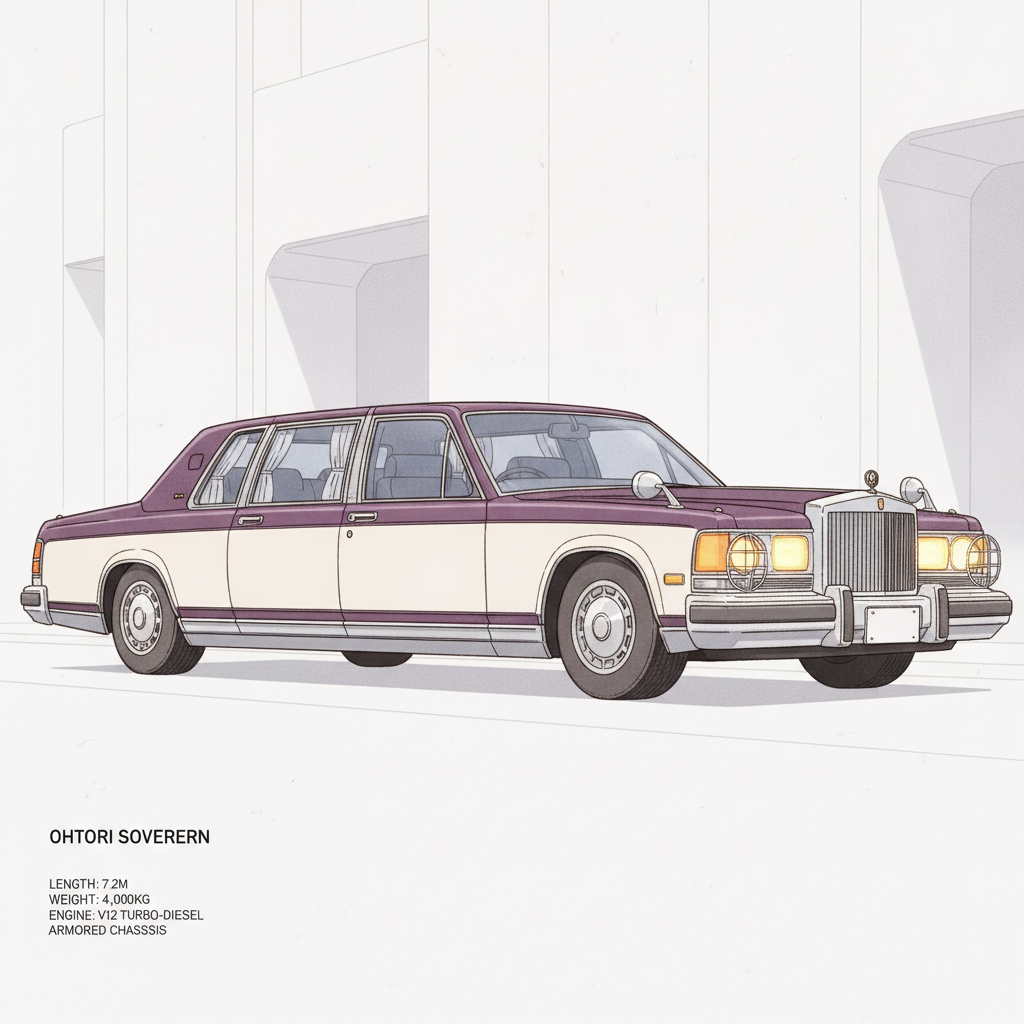
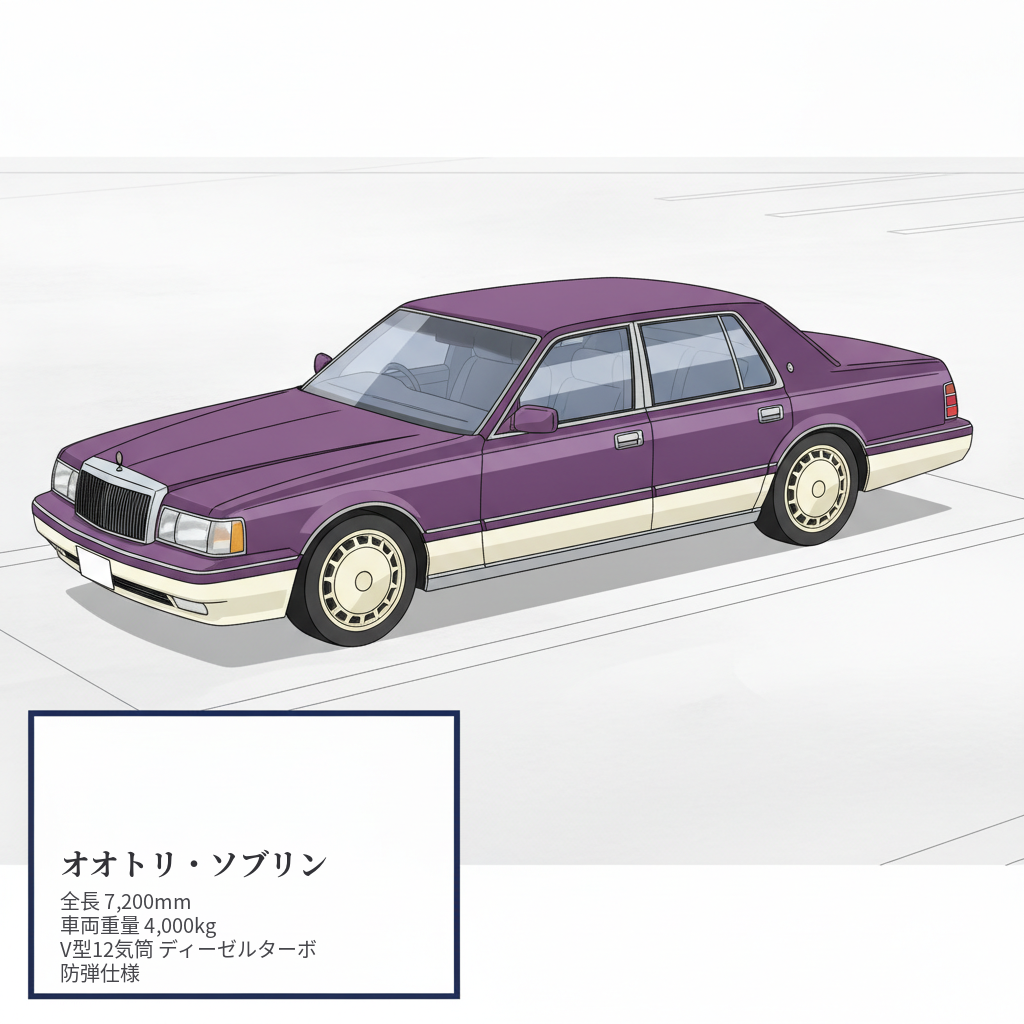
art-book rework (fleet-gear): style-bar pass PNGs + chapter.md

diff --git a/art-book/fleet-gear/chapter.md b/art-book/fleet-gear/chapter.md
@@ -327,3 +327,14 @@ This pass covers the Hinode Carrier, the Goliath 800, and the cargo props. Still
 ---
 
 *End of FLEET & GEAR chapter draft. Mocks — [REFERENCE] layer: `mock-hinode-carrier.png`, `mock-ohtori-sovereign.png`, `mock-goliath-800.png`, `mock-cargo-lashing.png`, `mock-driver-gear.png` (80s-anime cel, verified by eye: warm umber shadows, no neon soup, no unmasked faces, no digital-era form factors). [IMPLEMENTATION] layer: `impl-hinode-carrier.png`, `impl-goliath-800.png`, `impl-cargo-lashing.png` — low-poly 3D game-screenshot read (faceted geometry, ink outlines, cel bands, washed-out texture noise, simple backdrops), each opened and verified: no painterly drift, no text artifacts (one diegetic TAXI roof-sign in the Hinode mock — flagged in E2), no digital-era form factors, no faces. E2–E4 carry the per-vehicle production translation notes with honest flags; E5 lists the chassis still owed an impl pass.*
+
+
+## Plausibility — what's depicted, why it's that way (2026-10-05)
+
+Per Craig's law: dystopia allowed, unexplained eeriness is a defect, stereotype never. This chapter's images are vehicle/gear studies with no human figures — plausibility here is whether the machines and kit belong to the economy. They do, uniformly. Full text in `~/workspace/game-design/art-book/plausibility.md`.
+
+- **`mock-hinode-carrier.png` / `impl-hinode-carrier.png` — PASS.** The starter cab: two-tone sedan, roof rack with luggage, VACANT sign, hood spotlight, era-correct boxy proportions. *Reflects:* the player's sovereign ground — home, office, armor; the drive-up economy's handshake (VACANT sign); the spotlight is the dust-visibility answer. *Why no driver:* the wheelman is the player — the cab is presented empty like a class-select screen; the luggage rides the rack because the cab carries its life with it.
+- **`mock-ohtori-sovereign.png` — PASS.** Executive limousine, armored, studio spec-sheet profile. *Reflects:* the Upper Aerium's answer to the cab — armored because even the rich cross the Trench to reach their elevators. *Why:* machine document; proportions fixed, no scene staged.
+- **`mock-goliath-800.png` / `impl-goliath-800.png` — PASS.** Heavy crane-truck, annotated concept sheet and in-engine version. *Reflects:* the heavy-industry end of the fleet — the machine that loads what the haulers carry at Daikoku. *Why:* callouts fix assemblies for the art team; the harbor backdrop is its workplace.
+- **`mock-cargo-lashing.png` / `impl-cargo-lashing.png` — PASS.** Roof-rack cargo still life and in-engine prop set: lashed baskets, stenciled crates, canisters, rope knots. *Reflects:* cargo is the game's verb — this is the prop bible for "loaded." *Why:* everything is lashed because the city's roads shake loads apart; mixed cargo because a gig driver takes whatever pays.
+- **`mock-driver-gear.png` — PASS.** Flat-lay of the wheelman's kit: respirator, goggles, gloves, peaked cap, fare meter, route punch-cards, fare tokens, fan, tire iron. *Reflects:* the character law made personal — mask and goggles as survival uniform; the meter and punch-cards are the cash/Sol-88 economy in objects. *Why:* the kit IS the portrait — the driver is whoever wears it; the respirator is centered because it's the single most important object in the city.
